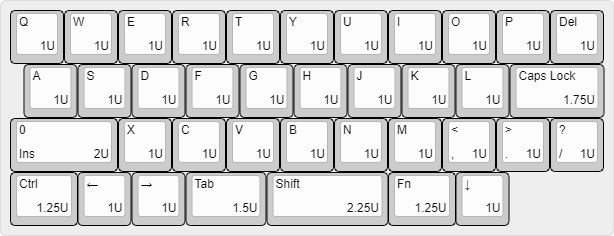
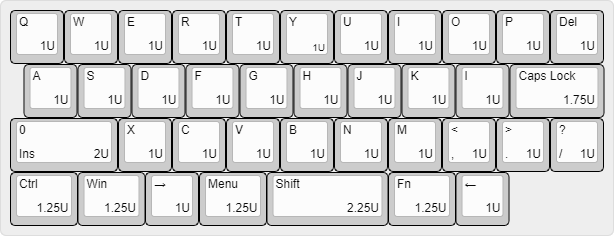
change the layout

Changed region(s): [[0.1238, 0.7119, 0.4332, 0.9788], [0.4951, 0.178, 0.5261, 0.2373], [0.7427, 0.7712, 0.7736, 0.8008]]

diff --git a/qmk_firmware/keyboards/kb/keymaps/default/keymap.c b/qmk_firmware/keyboards/kb/keymaps/default/keymap.c
@@ -11,7 +11,7 @@ const uint16_t PROGMEM keymaps[][MATRIX_ROWS][MATRIX_COLS] = {
 	KEYMAP(
 		KC_1, KC_2, KC_3, KC_4, KC_5, KC_6, KC_7, KC_8, KC_9, KC_0, KC_DEL, 
 		KC_LEFT, KC_UP, KC_DOWN, KC_RGHT, KC_GRV, KC_EQL, KC_BSLS, KC_SCLN, KC_QUOT, KC_ENT, 
-		KC_LSFT, KC_F1, KC_F2, KC_F3, KC_F4, KC_F5, KC_F6, KC_LBRC, KC_RBRC, KC_MINS, 
+		KC_LSFT, KC_F1, KC_F2, KC_F3, KC_F4, KC_F5, KC_F6, KC_COMM, KC_DOT, KC_SLSH, 
 		KC_LCTL, KC_LGUI, KC_ESC, KC_CAPS, KC_TAB, KC_TRNS, KC_RALT),
 
 	KEYMAP(

diff --git a/qmk_firmware/keyboards/kb/config.h b/qmk_firmware/keyboards/kb/config.h
@@ -17,7 +17,7 @@
 
 /* key matrix pins */
 #define MATRIX_ROW_PINS { D3, D2, D0, F7 }
-#define MATRIX_COL_PINS { D4, C6, D7, E6, B5, B1, B3, B2, B6, B4, D1 }
+#define MATRIX_COL_PINS { D4, C6, E6, B7, B5, B1, B3, B2, B6, B4, D1 }
 #define UNUSED_PINS
 
 /* COL2ROW or ROW2COL */
